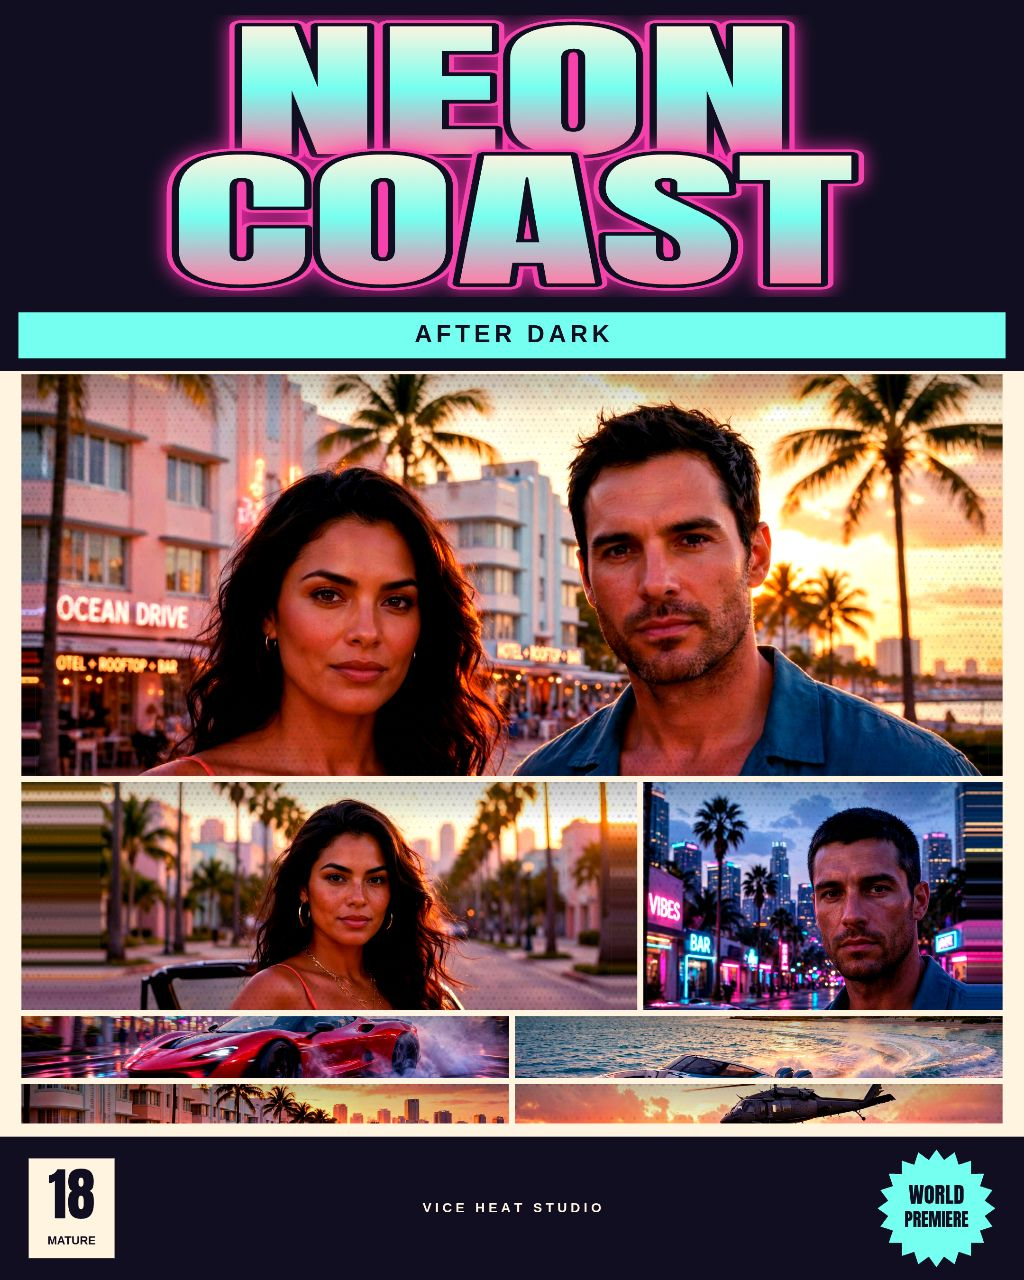
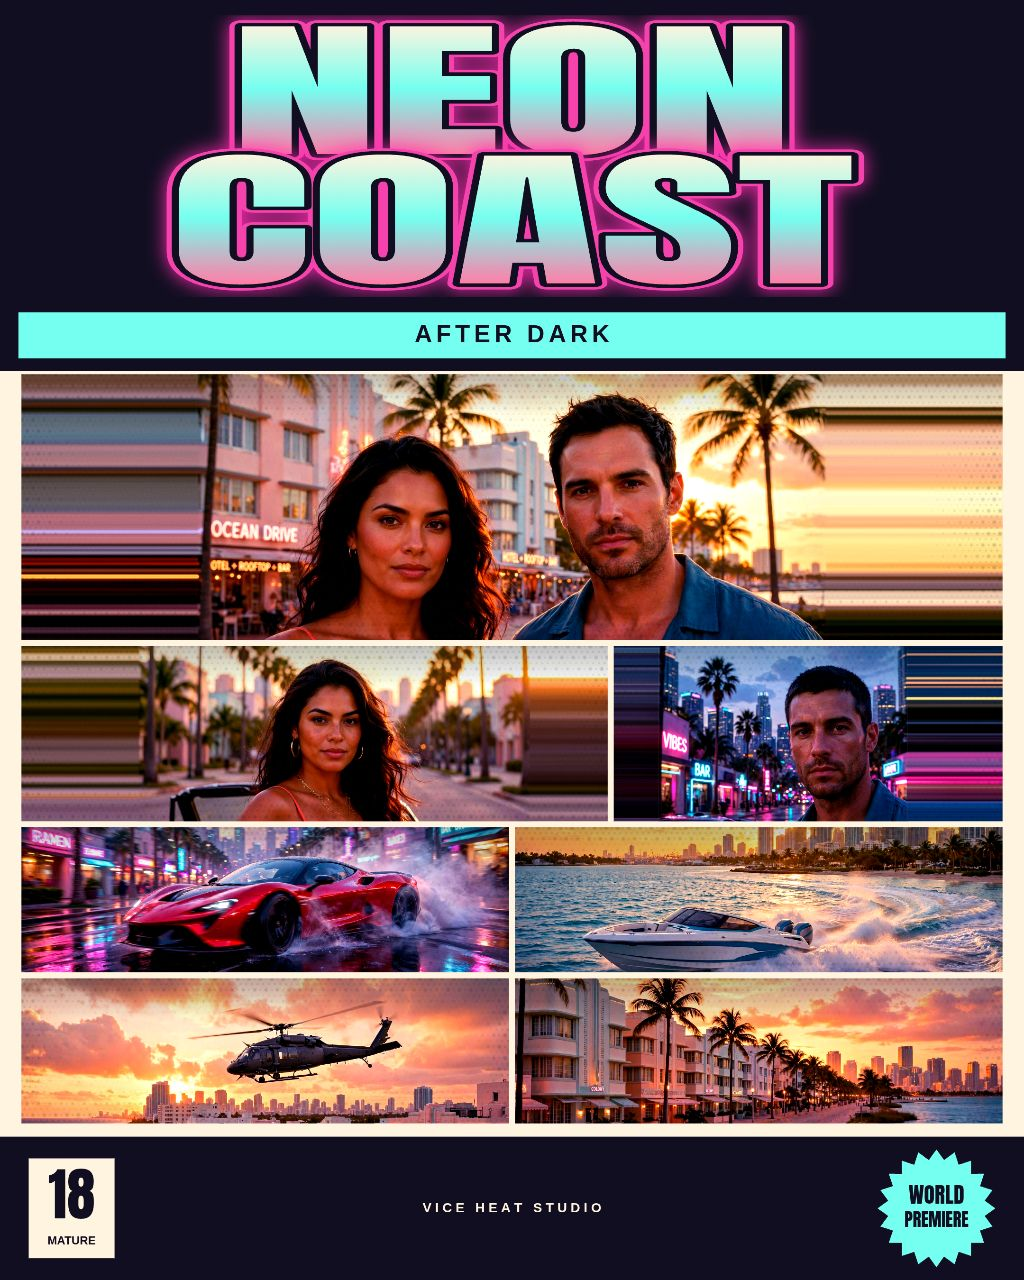
Round 10 fix: portrait key-art photo rows rebalanced — action panels get real height

diff --git a/app/src/cover.js b/app/src/cover.js
@@ -196,10 +196,10 @@ function keyArtPhotoPanels(aspect) {
       row(.695, .5, .305, .5), row(.695, 0, .305, .5)];
   }
   if (aspect < .9) {
-    return [row(0, 0, 1, .54),
-      row(0, .54, .63, .31), row(.63, .54, .37, .31),
-      row(0, .85, .5, .09), row(.5, .85, .5, .09),
-      row(0, .94, .5, .06), row(.5, .94, .5, .06)];
+    return [row(0, 0, 1, .36),
+      row(0, .36, .6, .24), row(.6, .36, .4, .24),
+      row(0, .60, .5, .20), row(.5, .60, .5, .20),
+      row(.5, .80, .5, .20), row(0, .80, .5, .20)];
   }
   // Portraits span both grid rows; the four landscape action photos occupy
   // the remaining two columns. This avoids squeezing heads into short tiles.
